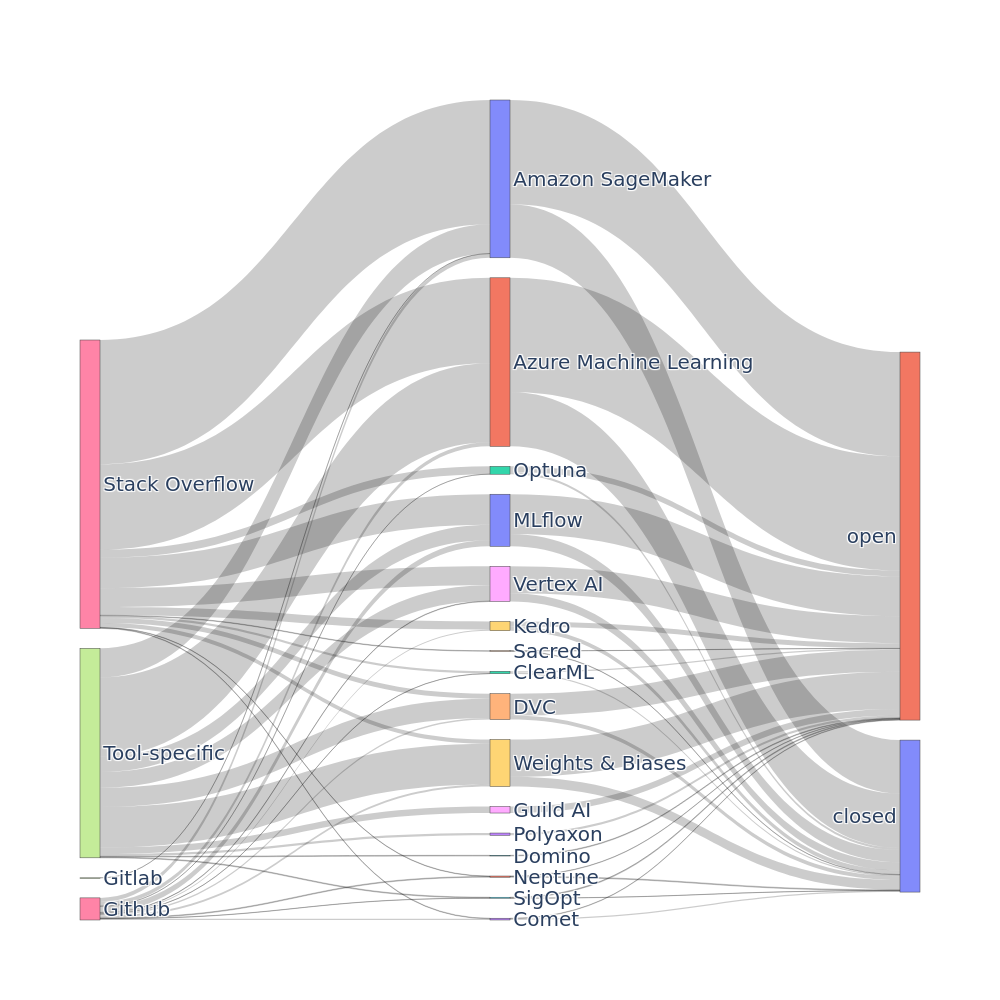
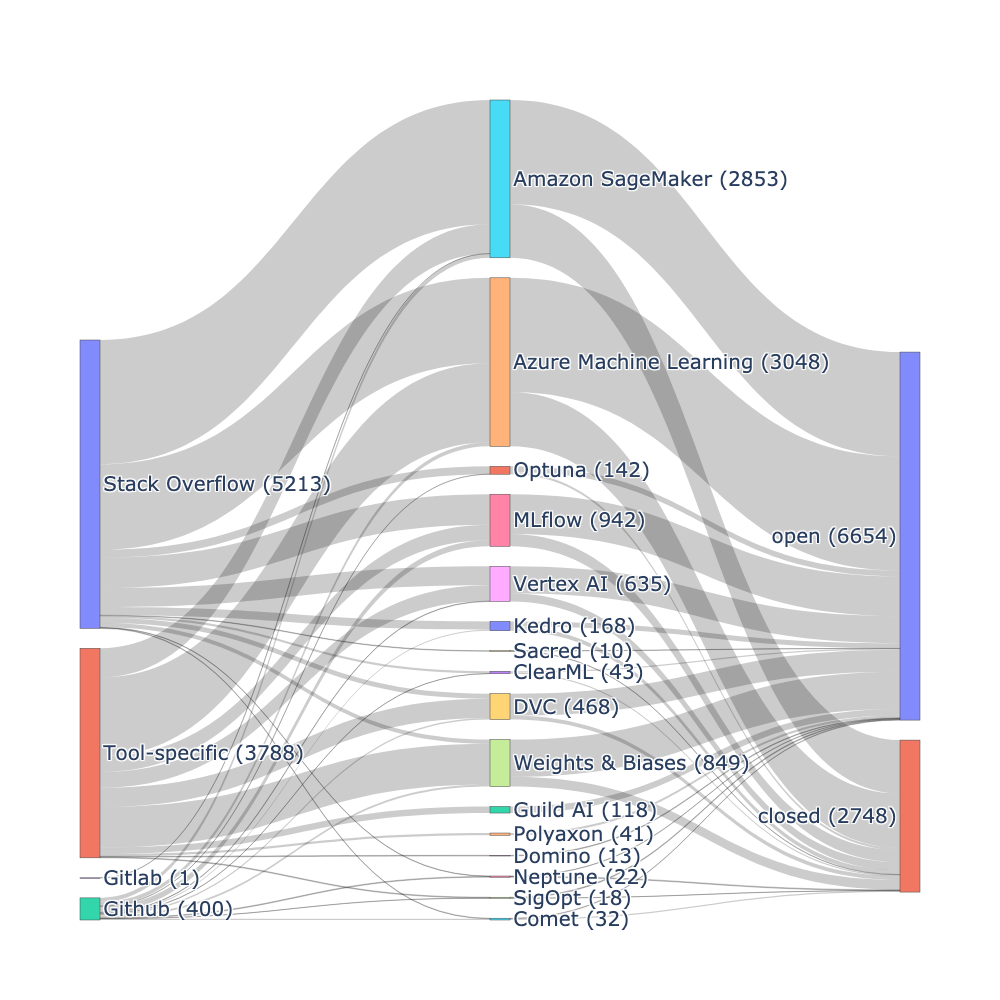
refresh sankey

diff --git a/Code/preprocess.py b/Code/preprocess.py
@@ -191,40 +191,40 @@ df_all.to_json(os.path.join(path_dataset, 'original.json'),
 
 import plotly.graph_objects as go
 
-df_all = pd.read_json(os.path.join(path_dataset, 'original.json'))
-df_all['State'] = df_all['Challenge_closed_time'].apply(lambda x: 'closed' if not pd.isna(x) else 'open')
+df = pd.read_json(os.path.join(path_dataset, 'original.json'))
+df['State'] = df['Challenge_closed_time'].apply(lambda x: 'closed' if not pd.isna(x) else 'open')
 
 categories = ['Platform', 'Tool', 'State']
 
-df_all = df_all.groupby(categories).size().reset_index(name='value')
-df_all.to_json(os.path.join(path_general, 'Tool platform state info.json'),
+df_info = df.groupby(categories).size().reset_index(name='value')
+df_info.to_json(os.path.join(path_general, 'Tool platform state info.json'),
                indent=4, orient='records')
 
+labels = {}
 newDf = pd.DataFrame()
-for i in range(len(categories)-1):
-    tempDf = df_all[[categories[i], categories[i+1], 'value']]
+for i in range(len(categories)):
+    labels.update(df[categories[i]].value_counts().to_dict())
+    if i == len(categories)-1:
+        break
+    tempDf = df_info[[categories[i], categories[i+1], 'value']]
     tempDf.columns = ['source', 'target', 'value']
     newDf = pd.concat([newDf, tempDf])
+    
 newDf = newDf.groupby(['source', 'target']).agg({'value': 'sum'}).reset_index()
-
-label = list(np.unique(df_all[categories].values))
-source = newDf['source'].apply(lambda x: label.index(x))
-target = newDf['target'].apply(lambda x: label.index(x))
+source = newDf['source'].apply(lambda x: list(labels).index(x))
+target = newDf['target'].apply(lambda x: list(labels).index(x))
 value = newDf['value']
 
+labels = [f'{k} ({v})' for k, v in labels.items()]
+
 link = dict(source=source, target=target, value=value)
-node = dict(label=label)
+node = dict(label=labels)
 data = go.Sankey(link=link, node=node)
 
 fig = go.Figure(data)
 fig.update_layout(width=1000, height=1000, font_size=20)
 fig.write_image(os.path.join(
     path_general, 'Tool platform state sankey.png'))
-
-df_all = pd.read_json(os.path.join(path_general, 'Tool platform state info.json'))
-df_all = df_all.groupby(['Platform', 'State']).agg({'value': 'sum'}).reset_index()
-df_all.to_json(os.path.join(path_general, 'Platform state info.json'),
-               indent=4, orient='records')
 
 # remove custom stop words from challenges and solutions
 
